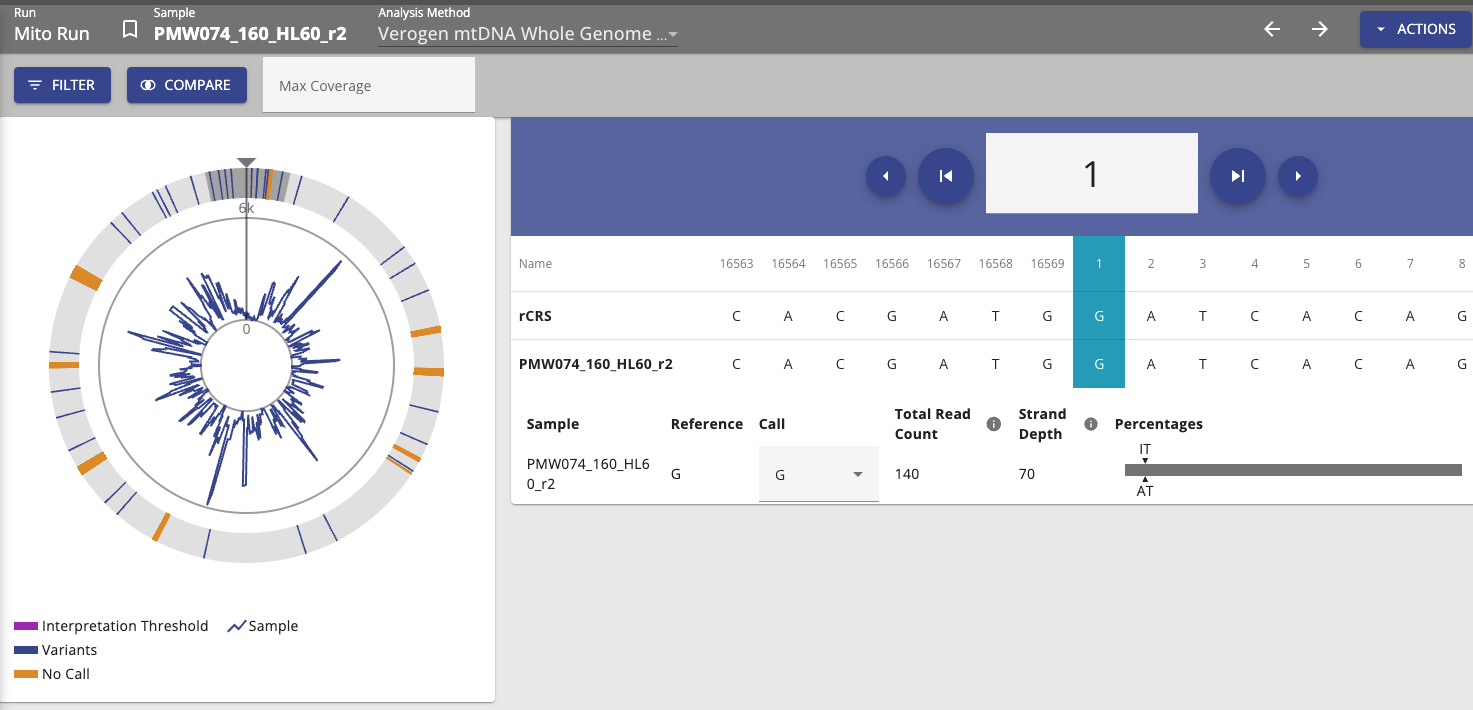
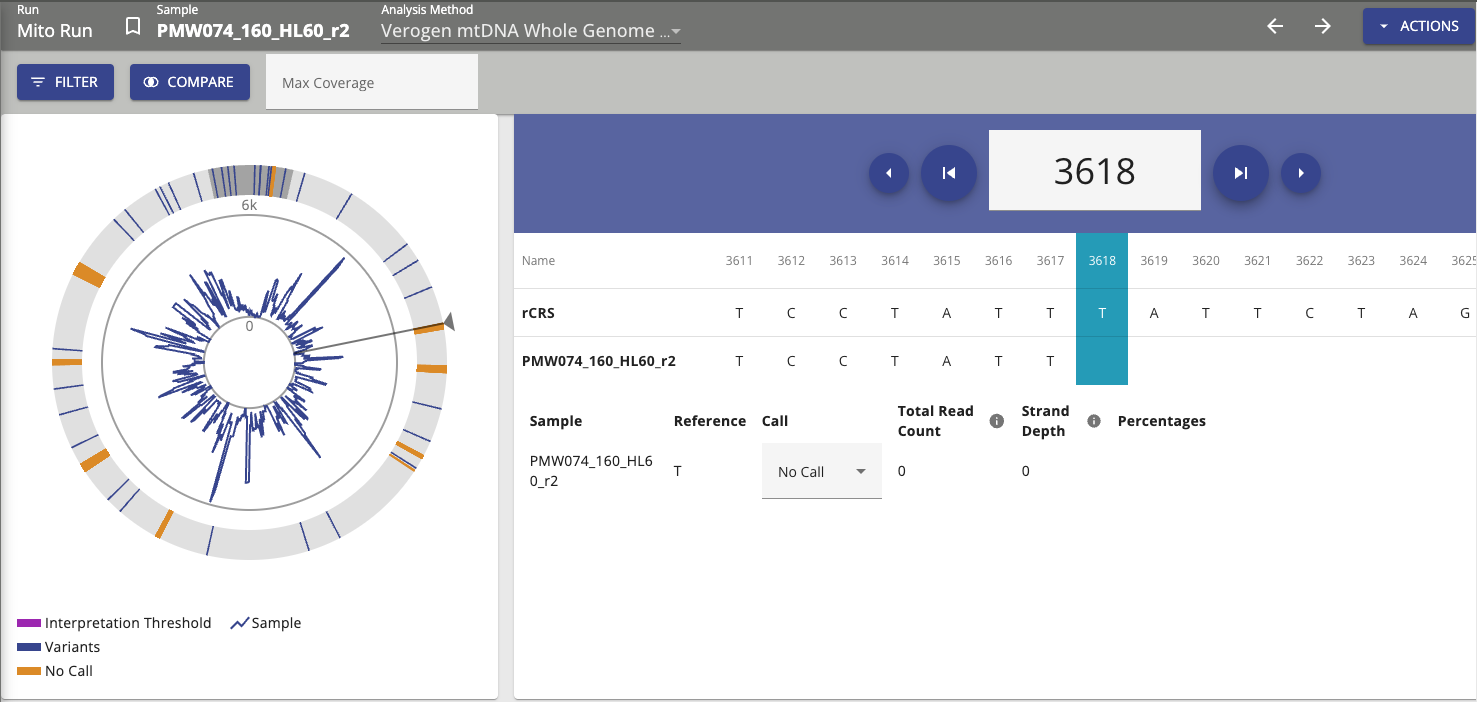
add mito section

diff --git a/app/portfolio/(fullpage)/forenseq/data.tsx b/app/portfolio/(fullpage)/forenseq/data.tsx
@@ -1,3 +1,4 @@
+import Link from 'next/link';
 import React from 'react';
 
 export type SectionData = {
@@ -31,17 +32,49 @@ export const sectionData: SectionData[] = [
         <h1 className='text-center font-bold'>
           ForenSeq Universal Analysis Software
         </h1>
-        <div className='mt-8 max-w-4xl mx-4 md:mx-auto'>
-          The ForenSeq Universal Analysis Software (UAS) provides a platform for
-          analyzing and managing forensic genomic data, simplifying complex
-          bioinformatics. It brings the power of next-gen sequencing to the
-          field of forensic genomics, and pairs it with first-class UI tools.
-          Users can view a high-level overview of a sample, use the powerful
-          filtering and flagging system to identify areas of interest, and drill
-          down to the allele level to override individual calls. Data can then
-          be exported in various formats such as Excel (*.xlsx) or CODIS
-          (*.cmf), so that users can continue to work with their data the way
-          they want.
+        <div className='mt-8 max-w-4xl mx-4 md:mx-auto prose'>
+          <p>
+            The ForenSeq Universal Analysis Software (UAS) provides a platform
+            for analyzing and managing forensic genomic data, simplifying
+            complex bioinformatics. It brings the power of next-gen sequencing
+            to the field of forensic genomics, and pairs it with first-class UI
+            tools. Users can view a high-level overview of a sample, use the
+            powerful filtering and flagging system to identify areas of
+            interest, and drill down to the allele level to override individual
+            calls. Data can then be exported in various formats such as Excel
+            (*.xlsx) or CODIS (*.cmf), so that users can have full control of
+            their data.
+          </p>
+
+          <p>
+            This application was initially developed at{' '}
+            <Link href='https://www.illumina.com/' target='_blank'>
+              Illumina
+            </Link>{' '}
+            using:
+            <ul>
+              <li>AngularJS</li>
+              <li>Bootstrap</li>
+              <li>.NET Web API</li>
+              <li>Entity Framework</li>
+              <li>PostgreSQL</li>
+            </ul>
+          </p>
+          <p>
+            It was later spun off into a separate company as{' '}
+            <Link href='https://www.verogen.com/' target='_blank'>
+              Verogen
+            </Link>{' '}
+            where it was rebuilt with a fresh tech stack:
+            <ul>
+              <li>Angular</li>
+              <li>Angular Material</li>
+              <li>Tailwind CSS</li>
+              <li>.NET Core Web API</li>
+              <li>Entity Framework Core</li>
+              <li>PostgreSQL</li>
+            </ul>
+          </p>
         </div>
       </div>
     ),
@@ -163,7 +196,9 @@ export const sectionData: SectionData[] = [
         },
         content: (
           <p>
-            Analysis of mitochondrial DNA gave me the chance to come up with an innovative data visualization using the power of D3.js. Since mtDNA is circular in nature, as opposed to the typical linear strands found in chromosomal DNA
+            Analysis of mitochondrial DNA gave me the unique opportunity to come
+            up with an innovative custom data visualization using the power of D3.js.
+            Since mtDNA is circular in shape, the visual on the left takes a simple line graph and wraps it into a circle. Markers along the outer edge help indicate areas with high concentrations of variants and other flags. The component on the right allows the user to see the full genomic data at each position, as well as giving them precise control over what section of the DNA to view.
           </p>
         ),
       },

diff --git a/app/styles/global.css b/app/styles/global.css
@@ -120,11 +120,11 @@ h2 {
 }
 
 .prose ul {
-  @apply list-disc pl-6;
+  @apply list-disc pl-8;
 }
 
 .prose ol {
-  @apply list-decimal pl-6;
+  @apply list-decimal pl-8;
 }
 
 .prose > :first-child {
